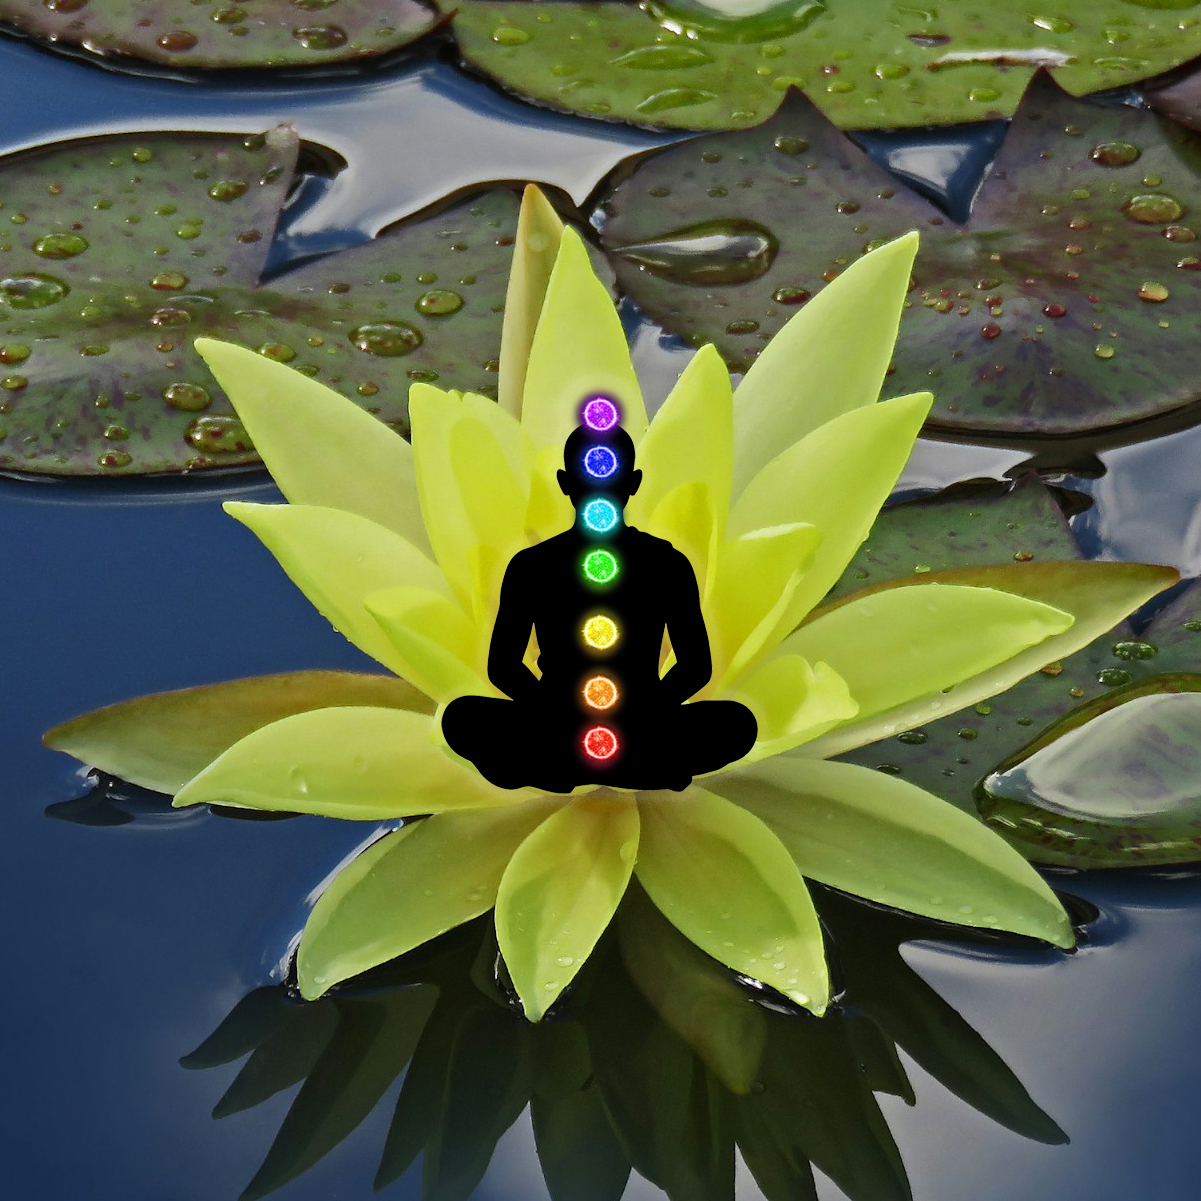
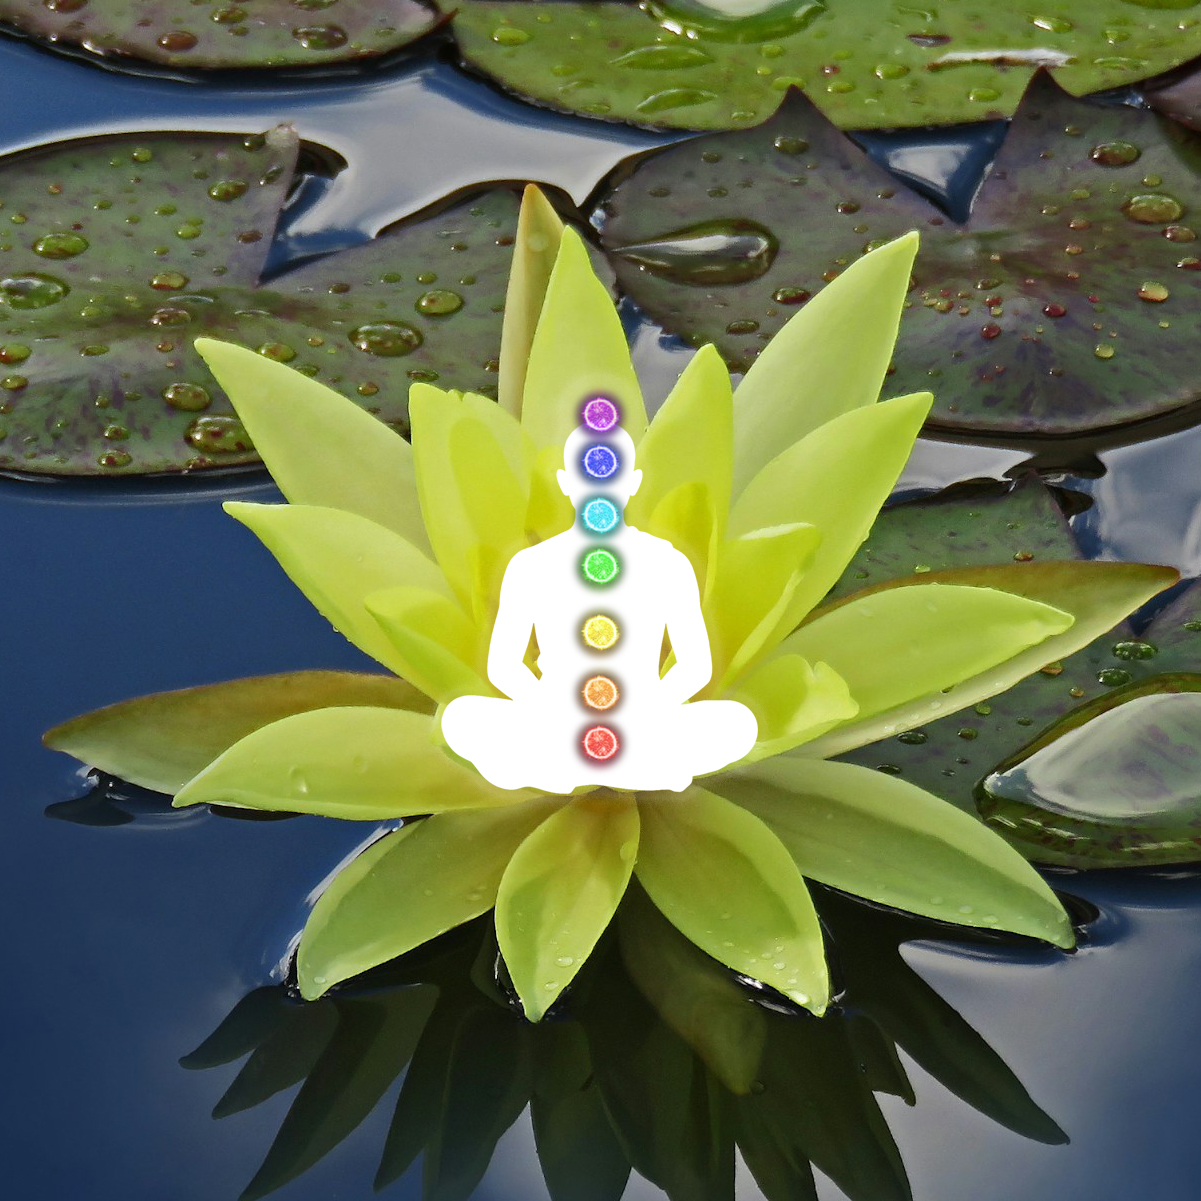
Update README and reequilibrage-des-chakras image
- Update README to better reflect project features and structure
- Remove outdated information and improve organization
- Add new image for reequilibrage-des-chakras service

Changed region(s): [[0.3697, 0.3081, 0.647, 0.6778]]

diff --git a/README.md b/README.md
@@ -1,130 +1,134 @@
 # Chiryo Energie - Website
 
-Website for Chiryo Energie, built with React Router v7, TypeScript, and Vite.
+Professional showcase website for Chiryo Energie, a holistic wellness practice offering energy healing, Reiki, sophrology, and spiritual guidance services in Joué-Les-Tours, France.
 
-## Documentation
-
-📚 **[Architecture Documentation](docs/architecture-documentation.md)** - Comprehensive guide covering the entire architecture, patterns, and best practices. Essential reading for:
-- Understanding how the system works
-- Reusing patterns for similar showcase websites
-- Learning about performance optimization strategies
-- SEO implementation details
+Built with React Router v7, TypeScript, and modern web technologies.
 
 ## Features
 
-- **Contact Form** - Secure POST-based form with honeypot spam protection and email integration
-- **Toast Notifications** - User-friendly success notifications using Radix UI
-- **Email Integration** - Resend API integration with automatic development mocking
-- **Type-Aware Linting** - Full TypeScript type checking with ESLint
+- **Service Pages** - Dynamic service listings with detailed pages for each offering
+- **Contact Form** - Secure form with honeypot spam protection and Resend email integration
+- **Image Optimization** - On-demand image transformation with Sharp (AVIF, WebP, JPEG) and responsive variants
+- **SEO Optimized** - Structured data, sitemap, robots.txt, meta tags, and breadcrumbs
+- **Accessibility** - WCAG compliant with Radix UI components
 - **Server-Side Rendering** - Full SSR support with React Router v7
 
-## Environment Variables
+## Documentation
 
-Create a `.env` file in the root directory with the following variables:
+📚 **[Architecture Documentation](docs/architecture-documentation.md)** - Comprehensive guide covering architecture, patterns, and best practices
 
-### Resend API Configuration
-- `RESEND_API_KEY` (optional in dev, required in production)
-  - Resend API key for sending emails. If not set in development, emails will be mocked and logged to console.
-  - Get your API key from [Resend](https://resend.com)
+📚 **[SEO Documentation](docs/seo-documentation.md)** - SEO implementation details and checklist
 
-### Contact Form Email Configuration
-- `CONTACT_EMAIL_FROM` (optional)
-  - Verified sender email address (must be verified with Resend)
-  - Should be a domain you own (e.g., `contact@chiryo-energie.sevend.io`)
-  - Defaults to `contact@chiryo-energie.sevend.io` if not set
+## Tech Stack
 
-- `CONTACT_EMAIL_TO` (optional)
-  - Email address where contact form submissions are delivered
-  - Defaults to `contact@chiryo-energie.sevend.io` if not set
-
-### Security
-- `HONEYPOT_ENCRYPTION_SEED` (optional)
-  - Secret seed for honeypot spam protection encryption
-
-- `ALLOW_INDEXING` (optional)
-  - Set to `"true"` to allow search engine indexing
-  - Omit or set to `false` to block indexing with:
-    - `noindex, nofollow` meta tag in HTML (page-level directive)
-    - `Disallow: /` in robots.txt (site-level directive)
-    - 404 response for sitemap.xml (prevents URL discovery)
-  - All three mechanisms work together for comprehensive indexing control
-
----
+- **React Router v7** - Full-stack React framework with SSR
+- **React 19** - Latest React with concurrent features
+- **TypeScript** - Complete type safety
+- **Vite 7** - Build tool and dev server
+- **Tailwind CSS v4** - Utility-first CSS framework
+- **Radix UI** - Accessible component primitives
+- **Sharp** - High-performance image optimization
+- **Zod v4** - Schema validation
+- **Conform** - Type-safe form handling
+- **Resend** - Email API for contact form submissions
+- **Express 5** - Production server
+- **Fly.io** - Production hosting
 
 ## Development
 
+### Prerequisites
+
+- Node.js 22+
+- npm or pnpm
+
 ### Available Scripts
 
-- `npm run dev` - Start development server with hot module reloading
-- `npm run build` - Build the application for production
-- `npm run start` - Start the production server (requires build first)
+- `npm run dev` - Start development server
+- `npm run build` - Build for production
+- `npm run start` - Start production server (requires build first)
 - `npm run lint` - Run ESLint
-- `npm run preview` - Preview the production build locally
 - `npm run typecheck` - Type-check TypeScript files
-- `npm run typecheck:app` - Type-check application TypeScript files
-- `npm run typecheck:node` - Type-check Node.js TypeScript files
+- `npm run test` - Run tests
+- `npm run preview` - Preview production build locally
 
-### Tech Stack
+### Environment Variables
 
-- **React Router v7** - Full-stack React framework with SSR
-- **TypeScript** - Type-safe JavaScript
-- **Vite** - Build tool and dev server
-- **Tailwind CSS** - Utility-first CSS framework
-- **Conform** - Type-safe form validation
-- **Zod v4** - Schema validation
-- **Radix UI** - Accessible component primitives (Toast, Accordion)
-- **Resend** - Email API for contact form submissions
-- **remix-utils** - Utility functions (honeypot spam protection)
+Create a `.env` file in the root directory:
 
----
+```env
+# Email (optional in dev, required in production)
+RESEND_API_KEY=your_resend_api_key
+CONTACT_EMAIL_FROM=contact@yourdomain.com
+CONTACT_EMAIL_TO=your@email.com
 
-## Technical Details
+# Admin System (required for admin access)
+ADMIN_PASSWORD=your_secure_password
+SESSION_SECRET=your_session_secret
 
-### Form Handling
+# SEO (optional)
+ALLOW_INDEXING=true
 
-The contact form uses:
-- **POST method** for secure form submission (prevents honeypot fields from appearing in URLs)
-- **Zod v4** for schema validation
-- **Conform** for type-safe form handling
-- **Honeypot** protection via `remix-utils` to prevent spam
-- **Toast notifications** using Radix UI for user feedback
+# Security (optional)
+HONEYPOT_ENCRYPTION_SEED=your_secret_seed
+```
 
-### Email Integration
+## Data Management
 
-- Uses **Resend API** for sending emails
-- Automatically mocks email sending in development (logs to console)
-- Properly typed with TypeScript interfaces
-- Handles errors gracefully with user-friendly messages
+Content is stored in JSON files (`app/data/*.json`) with TypeScript fallbacks (`app/data/*.ts`). The admin system allows editing content through the web interface, or you can edit JSON files directly.
 
-### Type Safety
-
-- Full TypeScript coverage
-- Type-aware ESLint rules enabled
-- React Router type generation for route safety
-- Proper ServerBuild typing for Express integration
+To reset data from TypeScript fallbacks:
+```bash
+npm run seed
+```
 
 ## Deployment
 
 ### Fly.io
 
-This application is configured for deployment on Fly.io. The configuration is in `fly.toml`.
-
-#### Environment Variables on Fly.io
-
-Set environment variables using:
+Deploy to Fly.io:
 ```bash
 fly secrets set RESEND_API_KEY=your_key
+fly secrets set ADMIN_PASSWORD=your_password
+fly secrets set SESSION_SECRET=your_secret
+fly deploy
+```
+
+### Environment Variables on Fly.io
+
+Set required secrets:
+```bash
+fly secrets set RESEND_API_KEY=xxx
 fly secrets set CONTACT_EMAIL_FROM=contact@yourdomain.com
 fly secrets set CONTACT_EMAIL_TO=your@email.com
+fly secrets set ADMIN_PASSWORD=xxx
+fly secrets set SESSION_SECRET=xxx
+fly secrets set ALLOW_INDEXING=true
+```
+
+## Project Structure
+
+```
+app/
+├── components/       # Reusable UI components
+├── data/            # Content data (services, FAQs, testimonials)
+├── routes/          # File-based routing
+├── utils/           # Utility functions (email, images, auth)
+└── types/           # TypeScript type definitions
+
+assets/
+└── images-raw/      # Source images (optimized on build/deploy)
+
+docs/                # Project documentation
+scripts/             # Build and utility scripts
 ```
 
 ## Code Quality
 
-This project uses **type-aware linting** with TypeScript ESLint, providing enhanced type safety and catching more errors at lint time. The configuration includes:
+- **TypeScript** - Full type coverage
+- **ESLint** - Type-aware linting with `typescript-eslint`
+- **Vitest** - Unit tests for critical functionality
+- **Prettier** - Code formatting (via ESLint)
 
-- Type-checked rules from `@typescript-eslint`
-- React-specific linting rules
-- Proper handling of React Router generated types
-- Strict type checking across the codebase
+## License
 
-All linting errors have been resolved to ensure code quality and type safety.
+Private project for Chiryo Energie.
